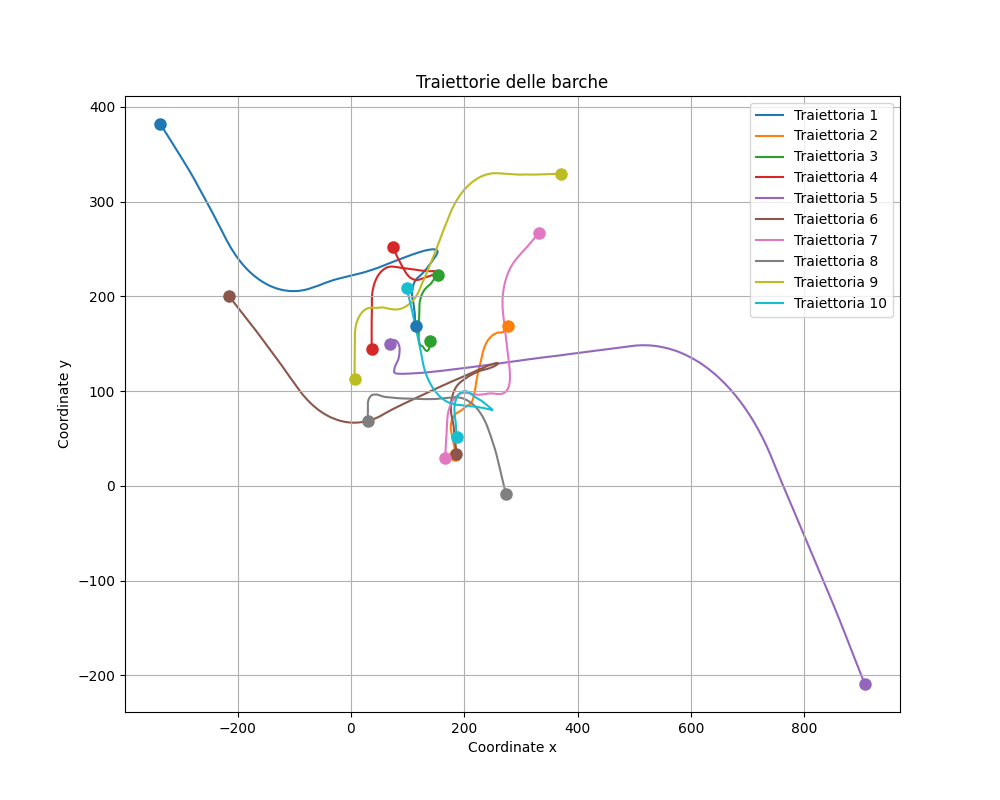
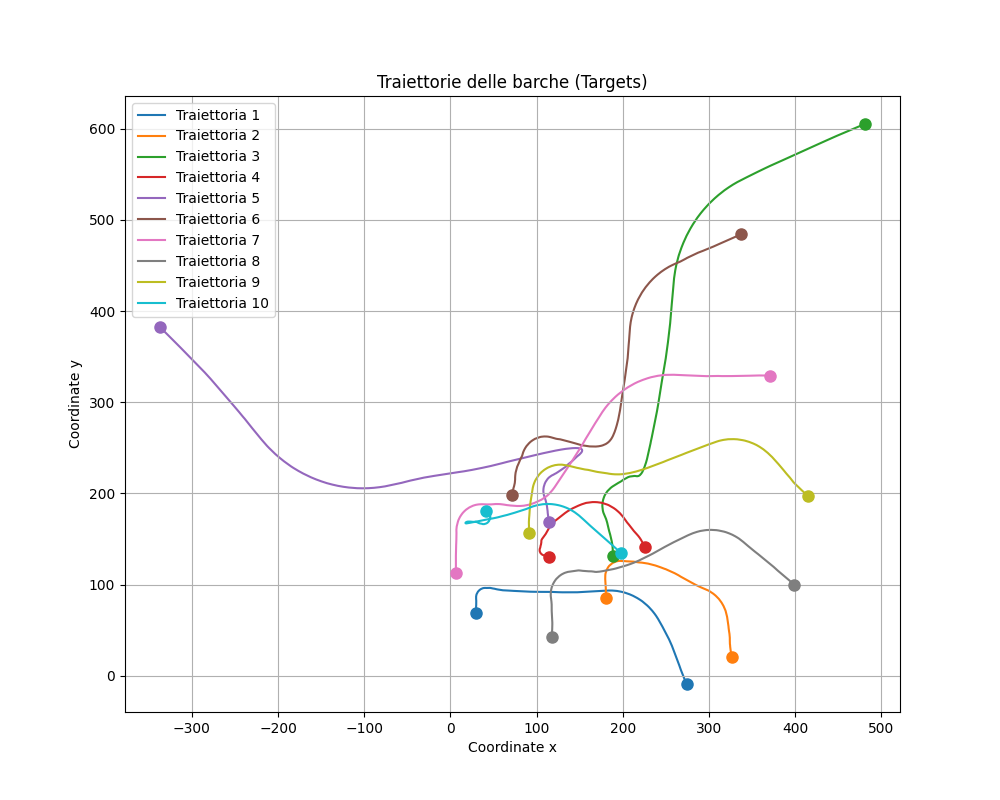
fix + todolist + queustions

diff --git a/main.py b/main.py
@@ -13,10 +13,11 @@ def main():
     except Exception as e:
         print("Errore durante il caricamento del dataset:", e)
         
-    #creo uno scenario con 10 traiettorie casuali
-    createdDataset = buildTheSet(10, inputDataset)
-    printDataset(createdDataset)
-    plotTrajectories(createdDataset, plotDir = "selectedTrajectories.png")
+    #creo uno scenario con numTargets traiettorie casuali
+    numTargets = 10
+    createdDatasetOfTargets = buildTheSet(numTargets, inputDataset)
+    printDataset(createdDatasetOfTargets)
+    plotTrajectories(createdDatasetOfTargets, plotDir = "selectedTrajectories.png")
     
 #---------------------------------------------------------------------------------------------------------
 

diff --git a/createTheSet.py b/createTheSet.py
@@ -84,7 +84,7 @@ def plotTrajectories(dataset, plotDir = None):
     
     plt.xlabel('Coordinate x')
     plt.ylabel('Coordinate y')
-    plt.title('Traiettorie delle barche')
+    plt.title('Traiettorie delle barche (Targets)')
     plt.legend()
     plt.grid(True)
     
